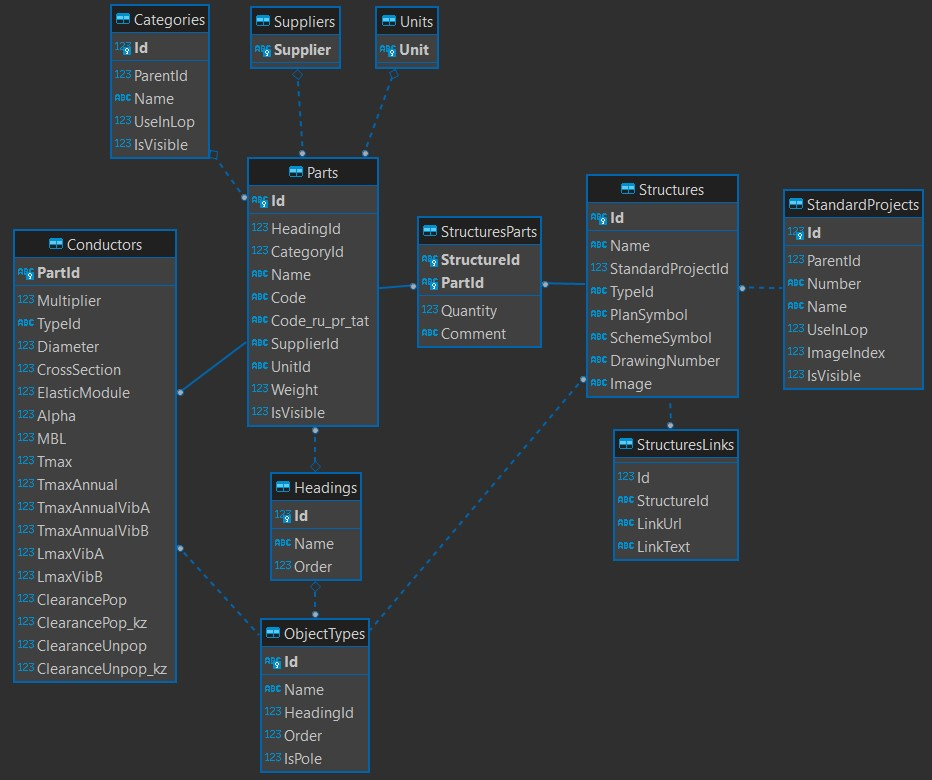
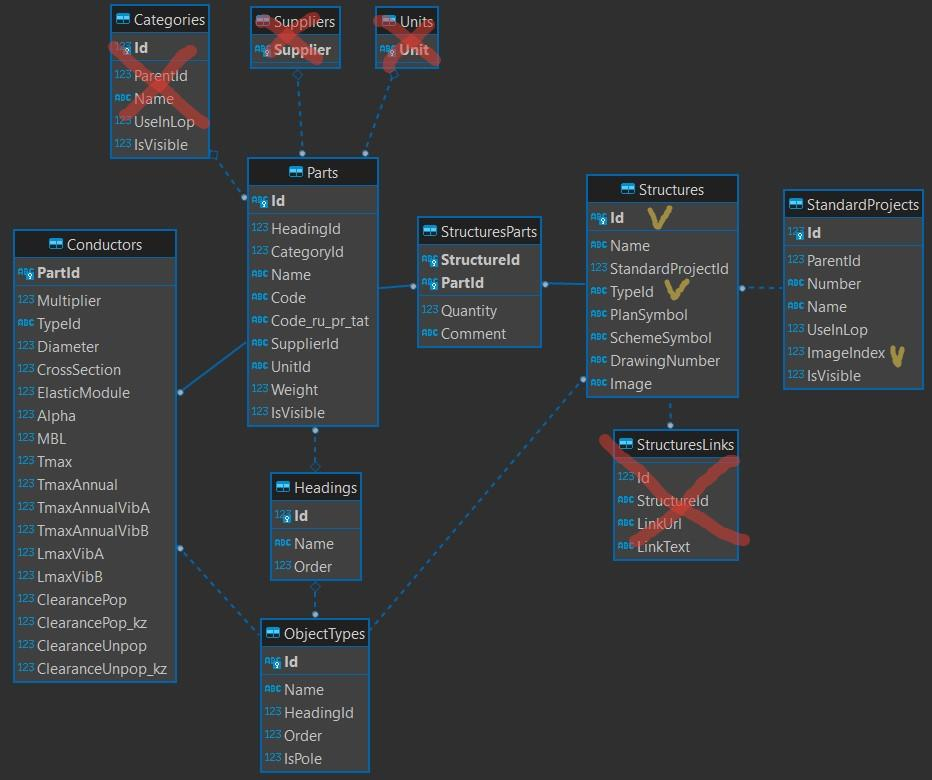
Update database_schema

diff --git a/designdoc/database_schema.md b/designdoc/database_schema.md
@@ -5,29 +5,24 @@
 - `CategoryId` - Id категрии товара в справочнике
 - `Id` - Уникальное наименование детали (артикул)
 - `Name` - Описание детали
-- `Name_xx` - Перевод описания на язык `xx`
 - `Code` - Код товара по какому-либо стороннему справочнику (например GTIN)
 - `Code_ru_pr_tat` - Код детали по справочнику в Татарстане
 - `SupplierId` - Id поставщика
 - `UnitId` - Единица измерения
 - `Weight` - Масса
 - `IsVisible` - Настройка видимости глобальная
-- `IsVisible_xx` - Настройка видимости для региона `xx`
 
 ## `Headings` - заголовки разделов/подразделов спецификации
 - `Id` - Id категрии
 - `Name` - Имя категории
-- `Name_xx` - Перевод имени на язык `xx`
 - `Order` - Порядок сортировки категорий при формировании отчета
 
 ## `Categories` - категории товаров в справочнике
 - `Id`
 - `ParentId` - Id родительской категории, ParentId=0 для категории верхнего уровня
 - `Name` - Имя категории
-- `Name_xx` - Перевод имени на язык `xx`
 - `UseInLop` - Товар из этой категории используется в формировании ведомости опор
-- `IsVisible` -  - Настройка видимости глобальная
-- `IsVisible_xx` - Настройка видимости для региона `xx`
+- `IsVisible` - Настройка видимости глобальная
 
 ## `StandardProjects` - типовые проекты (сборники типовых опор), отображаются в интерфейсе в виде папок
 - `Id`
@@ -37,7 +32,6 @@
 - `UseInLop` - _True_ - типовой проект, _False_ - просто папка
 - `ImageIndex` - Иконка папки в интерфейсе
 - `IsVisible` -  - Настройка видимости глобальная
-- `IsVisible_xx` - Настройка видимости для региона `xx`
 
 ## `Structures` - сборная контрукция (опора или какой-то другой объект)
 - `Id` - Марка (буквенно-цифровой шифр)
@@ -52,7 +46,6 @@
 ## `ObjectTypes` - типы объектов
 - `Id`
 - `Name` - Имя
-- `Name_xx` - Перевод имени на язык `xx`
 - `HeadingId` - Id заголовка/подзаголовка таблицы спецификации
 - `Order` - Порядок сортировки при формировании отчетов
 - `IsPole` - опора или нет
@@ -65,11 +58,9 @@
 
 ## `Suppliers` - Поставщики
 - `Supplier` - Наименование организации
-- `Supplier_xx` - Перевод наименования для региона `xx`
 
 ## `Units` - Единицы измерения
 - `Unit` - Единица измерения
-- `Unit_en` - Перевод единицы измерения на язык `xx`
 
 ## `StructuresLinks` - Таблица со ссылками на дополнительные файлы, привязанные к опоре
 
